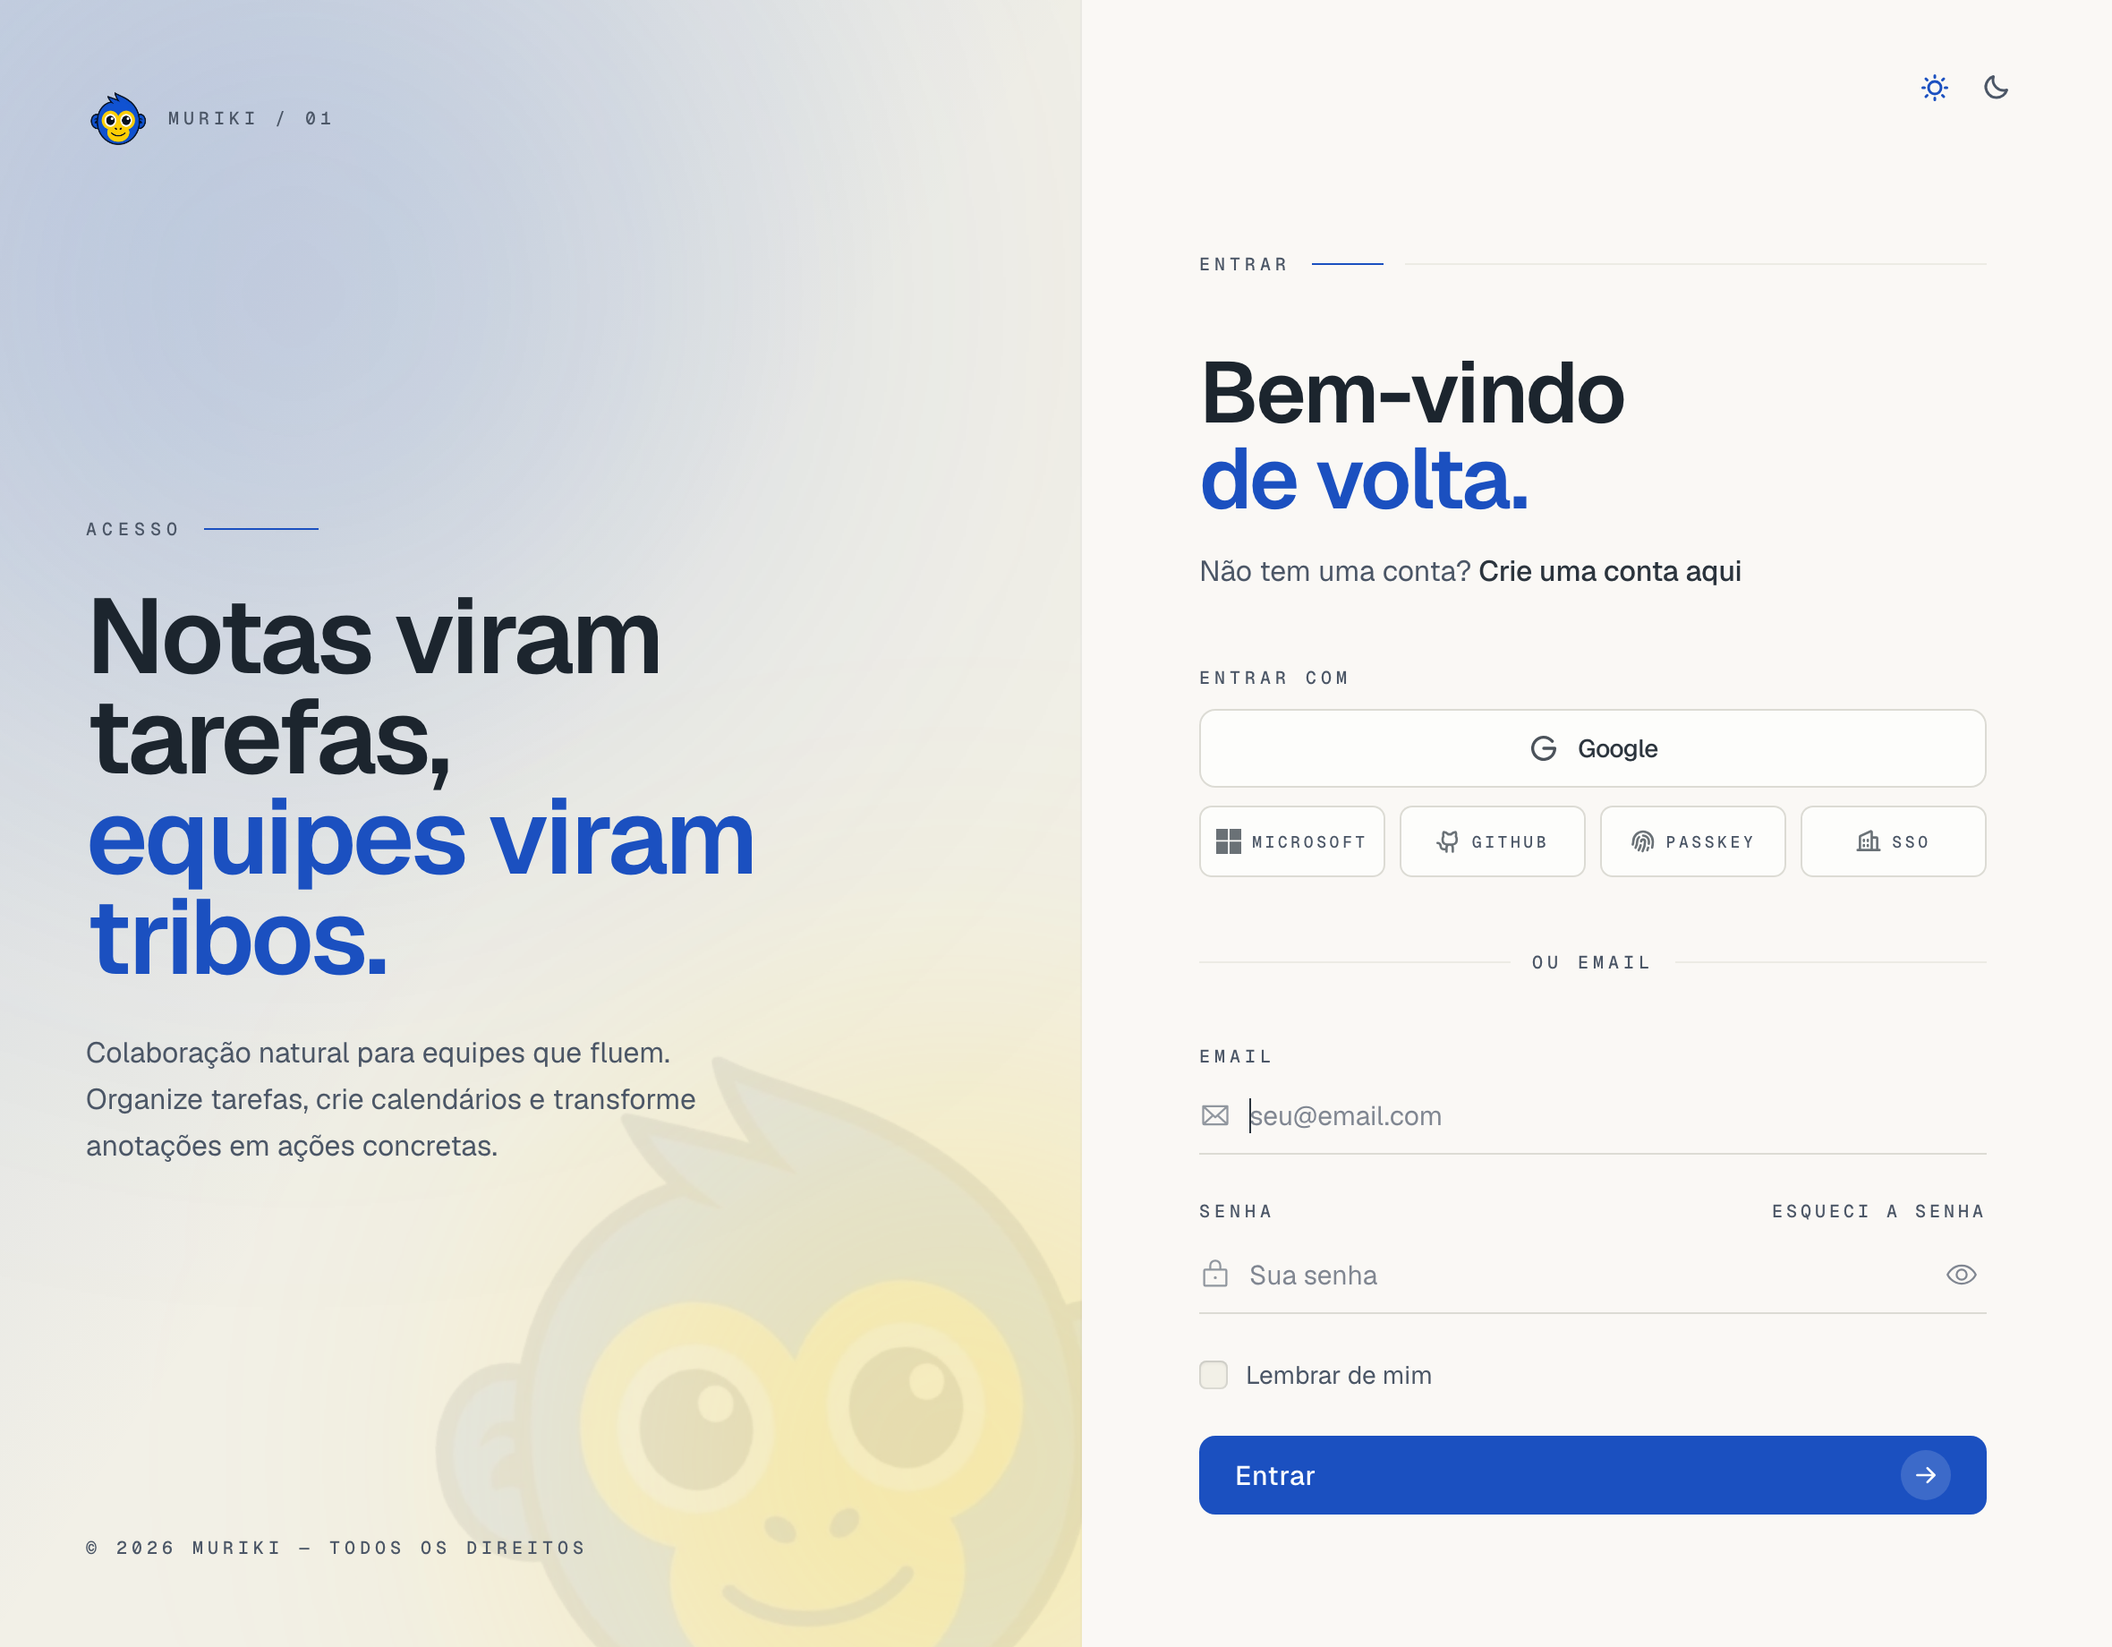
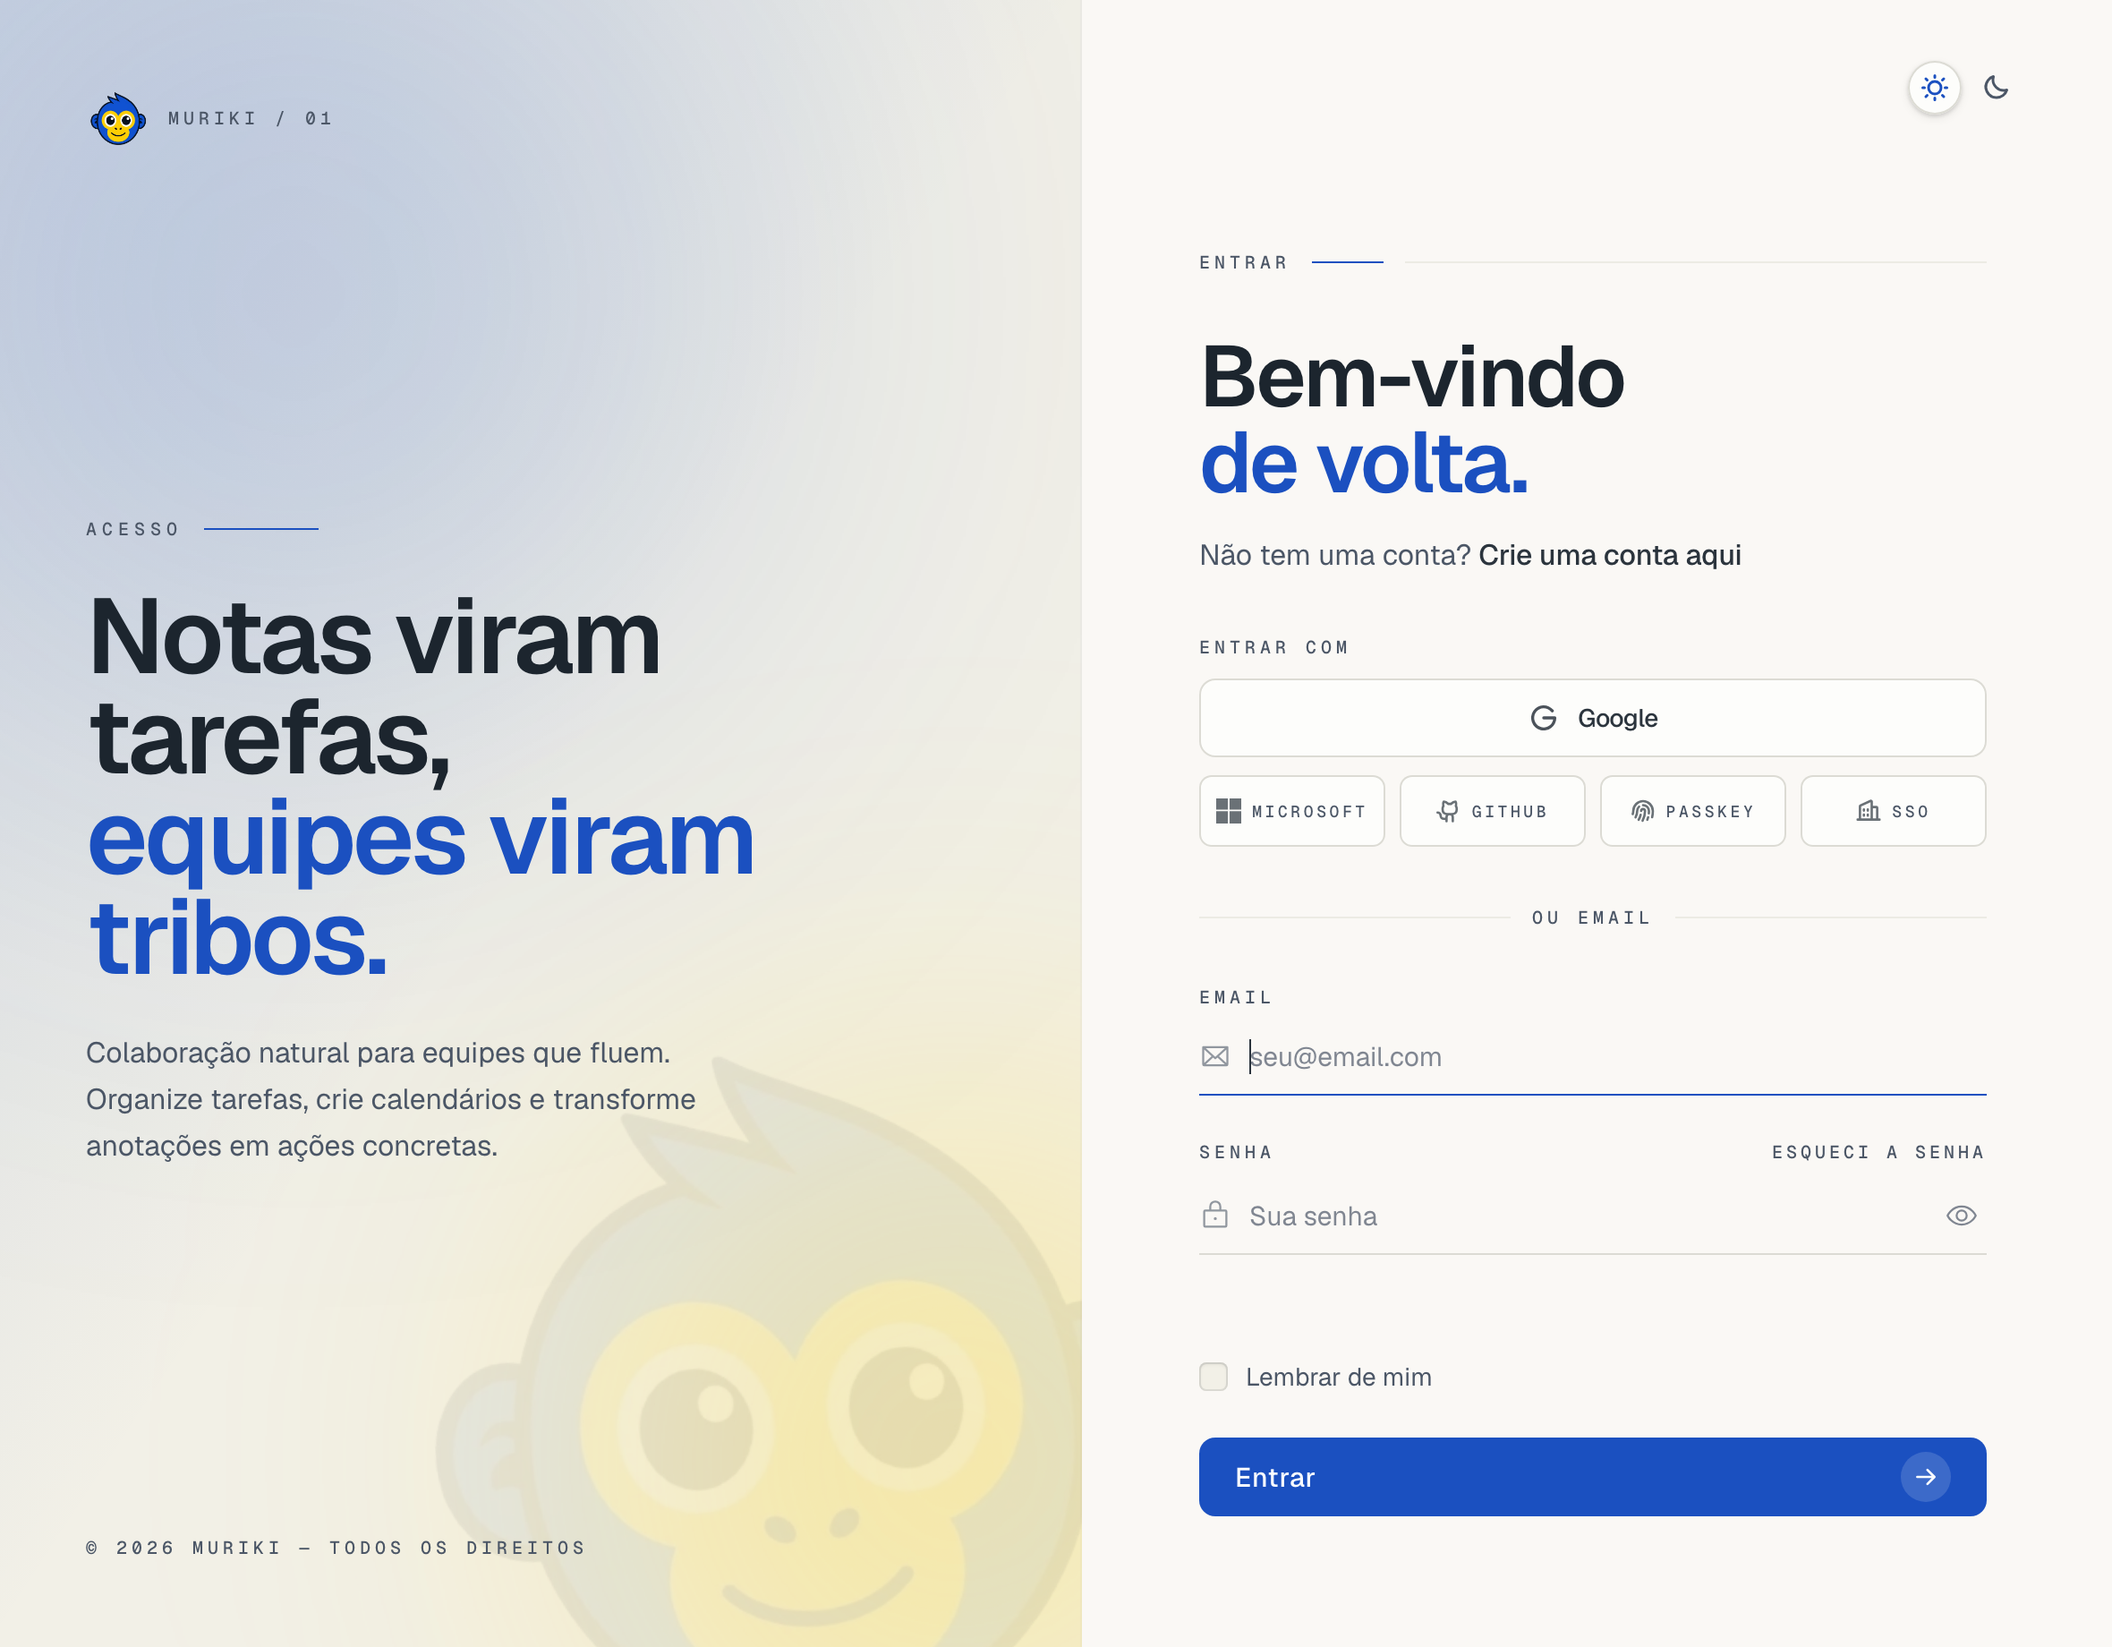
fix(login): a tela deixa de crescer quando a senha é digitada
O primeiro caractere na senha abria a barra de força e uma lista de
quatro requisitos empilhados — 77px que empurravam o botão de entrar
para fora da dobra bem na hora de clicar nele.

Três frentes, e a regra que sai delas é: tela de viewport inteiro não
cresce embaixo do dedo.

- A força da senha reserva a altura desde o início e só pinta quando há
  o que medir. Os requisitos viraram uma fileira só, com rótulos curtos,
  e a palavra da força saiu do texto — ela já está na cor da barra, e
  continua anunciada por aria-valuetext.
- O ritmo do formulário responde à ALTURA da janela, em duas faixas
  exclusivas. Sobrepostas elas não funcionam: as duas casam ao mesmo
  tempo numa janela baixa e a mais folgada vence por vir depois no CSS.
- O passo do segundo fator esconde provedores, e-mail, senha e "lembrar
  de mim" — credencial já aceita — e mostra a conta em que se está
  entrando. O painel de código passou a caber sem rolar.

Medido em 1440×900, 1440×800, 1280×720 e 1680×1050: em todos, e nos três
estados, a altura do documento é igual à da janela.

Claude-Session: https://claude.ai/code/session_019isGwWozcUFTpMADUpsFC5

diff --git a/registry/muriki/blocks/login-page/login-form.tsx b/registry/muriki/blocks/login-page/login-form.tsx
@@ -178,12 +178,19 @@ export function LoginForm({
       ? t("login.totp.verify_submit")
       : t("login.submit")
 
+  // No passo do código, a credencial já foi aceita: manter e-mail, senha e
+  // provedores na tela só empurra o botão para fora da dobra.
+  const credenciais = step === "credentials"
+
   const PasswordIcon = showPassword ? LockOpen : Lock
   const EyeIcon = showPassword ? EyeSlash : Eye
   const PrimaryIcon = primaryProvider?.icon
 
   return (
-    <div className={cn("flex flex-col gap-8 md:gap-10", className)}>
+    // O ritmo responde à ALTURA da janela, não só à largura: esta é uma
+    // tela de viewport inteiro, e numa janela baixa a folga que sobra em
+    // cima é o botão de entrar que falta embaixo.
+    <div className={cn("flex flex-col gap-7 md:gap-8 [@media(min-height:781px)_and_(max-height:900px)]:gap-5 [@media(max-height:780px)]:gap-4", className)}>
       {/* rótulo de seção */}
       <div className="flex items-center gap-3">
         <span className={CAPTION}>{t("login.submit")}</span>
@@ -192,12 +199,13 @@ export function LoginForm({
       </div>
 
       {/* título */}
-      <div className="flex flex-col gap-4">
-        <h1 className="text-[clamp(2.5rem,9vw,3.75rem)] leading-none font-semibold tracking-[-0.03em] text-foreground-strong md:text-5xl">
+      <div className="flex flex-col gap-4 [@media(max-height:900px)]:gap-3">
+        <h1 className="text-[clamp(2.5rem,9vw,3.75rem)] leading-none font-semibold tracking-[-0.03em] text-foreground-strong md:text-5xl [@media(max-height:900px)]:text-4xl">
           {t("login.hero_line1")}
           <br />
           <span className="text-primary">{t("login.hero_line2")}</span>
         </h1>
+        {credenciais ? (
         <p className="text-sm text-muted-foreground md:text-base">
           {t("login.subtitle")}{" "}
           <Button
@@ -208,10 +216,12 @@ export function LoginForm({
             {t("login.create_account_link")}
           </Button>
         </p>
+        ) : null}
       </div>
 
-      {/* provedores — um primário largo, os outros numa fileira */}
-      {primaryProvider || providers.length > 0 ? (
+      {/* provedores — um primário largo, os outros numa fileira.
+          No passo do código eles somem: credencial já foi. */}
+      {credenciais && (primaryProvider || providers.length > 0) ? (
         <div className="flex flex-col gap-2.5">
           <span className={CAPTION}>{t("login.section_signin_with")}</span>
 
@@ -253,14 +263,18 @@ export function LoginForm({
       ) : null}
 
       {/* divisor */}
-      <div className="flex items-center gap-3">
-        <span className="h-px flex-1 bg-border" />
-        <span className={CAPTION}>{t("login.section_or")}</span>
-        <span className="h-px flex-1 bg-border" />
-      </div>
+      {credenciais ? (
+        <div className="flex items-center gap-3">
+          <span className="h-px flex-1 bg-border" />
+          <span className={CAPTION}>{t("login.section_or")}</span>
+          <span className="h-px flex-1 bg-border" />
+        </div>
+      ) : null}
 
       <form onSubmit={handleSubmit} noValidate className="flex flex-col gap-6">
-        {/* email */}
+        {/* email + senha: só enquanto a credencial é o assunto */}
+        {credenciais ? (
+        <>
         <Field variant="editorial" invalid={!!errors.email}>
           <FieldLabel>{t("login.email_label")}</FieldLabel>
           <div className="relative">
@@ -331,6 +345,8 @@ export function LoginForm({
           {errors.password ? <FieldError>{errors.password}</FieldError> : null}
           <PasswordStrengthBar password={password} requirements className="pt-1" />
         </Field>
+        </>
+        ) : null}
 
         {/* segundo fator */}
         {step === "code" ? (
@@ -340,6 +356,9 @@ export function LoginForm({
               <div>
                 <p className="text-sm font-medium text-foreground-strong">{t("login.totp.title")}</p>
                 <p className="mt-1 text-xs text-muted-foreground">{t("login.totp.description")}</p>
+                {email.trim() ? (
+                  <p className="mt-1 font-mono text-[11px] text-muted-foreground">{email.trim()}</p>
+                ) : null}
               </div>
               <Field variant="editorial" invalid={!!errors.code}>
                 <FieldLabel>{t("login.totp.code_label")}</FieldLabel>
@@ -373,12 +392,14 @@ export function LoginForm({
         ) : null}
 
         {/* lembrar de mim */}
+        {credenciais ? (
         <Field className="flex-row items-center gap-2.5">
           <Checkbox checked={rememberMe} onCheckedChange={(checked) => setRememberMe(checked)} />
           <FieldLabel className="cursor-pointer text-sm font-normal text-muted-foreground">
             {t("login.remember_me")}
           </FieldLabel>
         </Field>
+        ) : null}
 
         {errors.form ? (
           <p role="alert" className="text-[11.5px] leading-[15px] text-destructive">

diff --git a/registry/muriki/blocks/password-strength/password-strength-bar.tsx b/registry/muriki/blocks/password-strength/password-strength-bar.tsx
@@ -7,8 +7,16 @@
  * da severidade: destructive, warning, success. Sem relevo no segmento —
  * numa faixa de 4px, sombra vira sujeira, a mesma regra do checkbox.
  *
- * `requirements` liga a lista de requisitos, que só aparece quando há
- * senha digitada: antes disso é ruído, depois é o mapa do que falta.
+ * ALTURA CONSTANTE, e isso é regra, não detalhe. Este bloco vive embaixo
+ * do campo de senha numa tela que precisa caber sem rolar: se ele crescer
+ * ao receber o primeiro caractere, empurra o botão de entrar para fora da
+ * dobra bem na hora em que a pessoa vai clicar nele. Por isso o espaço é
+ * reservado desde o início e o conteúdo apenas aparece — os requisitos são
+ * uma fileira só, não uma lista empilhada.
+ *
+ * A palavra da força ("Forte", "Média") não vira linha de texto: ela já
+ * está na cor e no preenchimento da barra, e é anunciada por
+ * `aria-valuetext` para quem não vê nenhum dos dois.
  */
 import { useTranslate } from "@/lib/i18n"
 import { cn } from "@/lib/utils"
@@ -32,7 +40,7 @@ const FILL: Record<PasswordStrength, string> = {
 
 export interface PasswordStrengthBarProps {
   password: string
-  /** Mostra a lista de requisitos enquanto houver senha digitada. */
+  /** Mostra a fileira de requisitos abaixo da barra. */
   requirements?: boolean
   className?: string
 }
@@ -45,22 +53,23 @@ export function PasswordStrengthBar({
   const t = useTranslate()
   const strength = getPasswordStrength(password)
   const filled = getStrengthSegments(strength)
-  const label = strength === "empty" ? "" : t(`password_strength.${strength}`)
-
-  // Campo vazio não tem força para medir: um trilho vazio abaixo do campo é
-  // ruído, e ainda promete um erro que ninguém cometeu. A barra nasce no
-  // primeiro caractere.
-  if (strength === "empty") return null
+  const vazio = strength === "empty"
 
   return (
-    <div className={cn("flex flex-col gap-1.5", className)}>
+    <div
+      // vazio ocupa o mesmo espaço e não pinta nada: sem salto de layout
+      // no primeiro caractere, e sem trilho vazio prometendo um erro que
+      // ninguém cometeu.
+      className={cn("flex flex-col gap-1.5", vazio && "invisible", className)}
+      aria-hidden={vazio || undefined}
+    >
       <div
         role="meter"
         aria-label={t("password_strength.meter")}
         aria-valuemin={0}
         aria-valuemax={TOTAL_SEGMENTS}
         aria-valuenow={filled}
-        aria-valuetext={label || undefined}
+        aria-valuetext={vazio ? undefined : t(`password_strength.${strength}`)}
         className="flex gap-1.5"
       >
         {Array.from({ length: TOTAL_SEGMENTS }, (_, i) => (
@@ -73,28 +82,25 @@ export function PasswordStrengthBar({
           />
         ))}
       </div>
-      {label ? (
-        <p className="text-[11.5px] leading-[15px] text-muted-foreground">{label}</p>
-      ) : null}
-      {requirements && password ? (
+      {requirements ? (
         <ul
-          className="flex flex-col gap-0.5 pt-0.5"
+          className="flex flex-wrap gap-x-2.5 gap-y-1"
           aria-label={t("password_strength.requirements")}
         >
           {checkPasswordRequirements(password).map((req) => (
             <li
               key={req.id}
               className={cn(
-                "flex items-center gap-1.5 font-mono text-[10px] tracking-wider",
+                "flex items-center gap-1 font-mono text-[10px] leading-[14px] tracking-wide",
                 req.met ? "text-success" : "text-muted-foreground"
               )}
             >
               {req.met ? (
-                <svg viewBox="0 0 24 24" className="size-3" fill="none" stroke="currentColor" strokeWidth={3} strokeLinecap="round" strokeLinejoin="round" aria-hidden>
+                <svg viewBox="0 0 24 24" className="size-3 shrink-0" fill="none" stroke="currentColor" strokeWidth={3} strokeLinecap="round" strokeLinejoin="round" aria-hidden>
                   <path d="m5 13 4.5 4.5L19 7" />
                 </svg>
               ) : (
-                <svg viewBox="0 0 24 24" className="size-3 opacity-60" fill="none" stroke="currentColor" strokeWidth={2.4} strokeLinecap="round" aria-hidden>
+                <svg viewBox="0 0 24 24" className="size-3 shrink-0 opacity-60" fill="none" stroke="currentColor" strokeWidth={2.4} strokeLinecap="round" aria-hidden>
                   <path d="M6 6l12 12M18 6 6 18" />
                 </svg>
               )}

diff --git a/registry/muriki/blocks/login-page/login-page.tsx b/registry/muriki/blocks/login-page/login-page.tsx
@@ -108,7 +108,7 @@ export function LoginPage({
           <div aria-hidden className="pointer-events-none absolute inset-x-0 top-0 h-[360px] bg-linear-to-b from-primary/[0.05] via-primary/[0.02] to-transparent lg:hidden" />
           <div aria-hidden className="pointer-events-none absolute -top-24 left-1/2 h-[280px] w-full max-w-[700px] -translate-x-1/2 rounded-full bg-primary/[0.07] blur-[120px] lg:hidden" />
 
-          <div className="relative z-10 flex flex-1 flex-col justify-center px-5 py-8 md:px-10 md:py-12 lg:grid lg:grid-cols-[minmax(0,0.8fr)_minmax(0,440px)_minmax(0,1fr)] lg:content-center lg:px-12 xl:px-20">
+          <div className="relative z-10 flex flex-1 flex-col justify-center px-5 py-8 md:px-10 md:py-12 [@media(min-height:781px)_and_(max-height:900px)]:py-6 [@media(max-height:780px)]:py-4 lg:grid lg:grid-cols-[minmax(0,0.8fr)_minmax(0,440px)_minmax(0,1fr)] lg:content-center lg:px-12 xl:px-20">
             <LoginForm
               {...form}
               onPasswordVisibilityChange={setPasswordVisible}

diff --git a/registry/muriki/lib/i18n.tsx b/registry/muriki/lib/i18n.tsx
@@ -113,11 +113,13 @@ const STRINGS: Record<string, unknown> = {
     medium: "Média",
     strong: "Forte",
     "very-strong": "Muito forte",
+    // Rótulos curtos: os requisitos são uma fileira só embaixo da barra,
+    // e a frase inteira ("Pelo menos 1 número") quebraria em duas linhas.
     requirement: {
-      length: "Pelo menos 8 caracteres",
-      number: "Pelo menos 1 número",
-      lowercase: "Pelo menos 1 letra minúscula",
-      uppercase: "Pelo menos 1 letra maiúscula",
+      length: "8 caracteres",
+      number: "1 número",
+      lowercase: "1 minúscula",
+      uppercase: "1 maiúscula",
     },
   },
   login: {

diff --git a/README.md b/README.md
@@ -296,6 +296,11 @@ Estão desenhadas e justificadas nas pranchas, e implementadas aqui:
 - **Superfície vira encaixe; objeto, não.** O trilho de switch e progress é
   encaixe. O thumb é objeto — não carrega nada e como encaixe sumiria: fica
   elevado nos dois temas, subindo por sombra no claro e por luz no escuro.
+- **Tela de viewport inteiro não cresce embaixo do dedo.** No login, a
+  força da senha reserva a altura desde o início e os requisitos são uma
+  fileira só: digitar não pode empurrar o "Entrar" para fora da dobra. O
+  ritmo também responde à ALTURA da janela, e o passo do segundo fator
+  esconde a credencial que já passou.
 - **O campo tem superfície própria.** O token `--field` é card no claro e
   sunken no escuro: o campo é o objeto mais claro da página em um tema e um
   encaixe no outro. A troca vive no token, não numa classe `dark:`.
